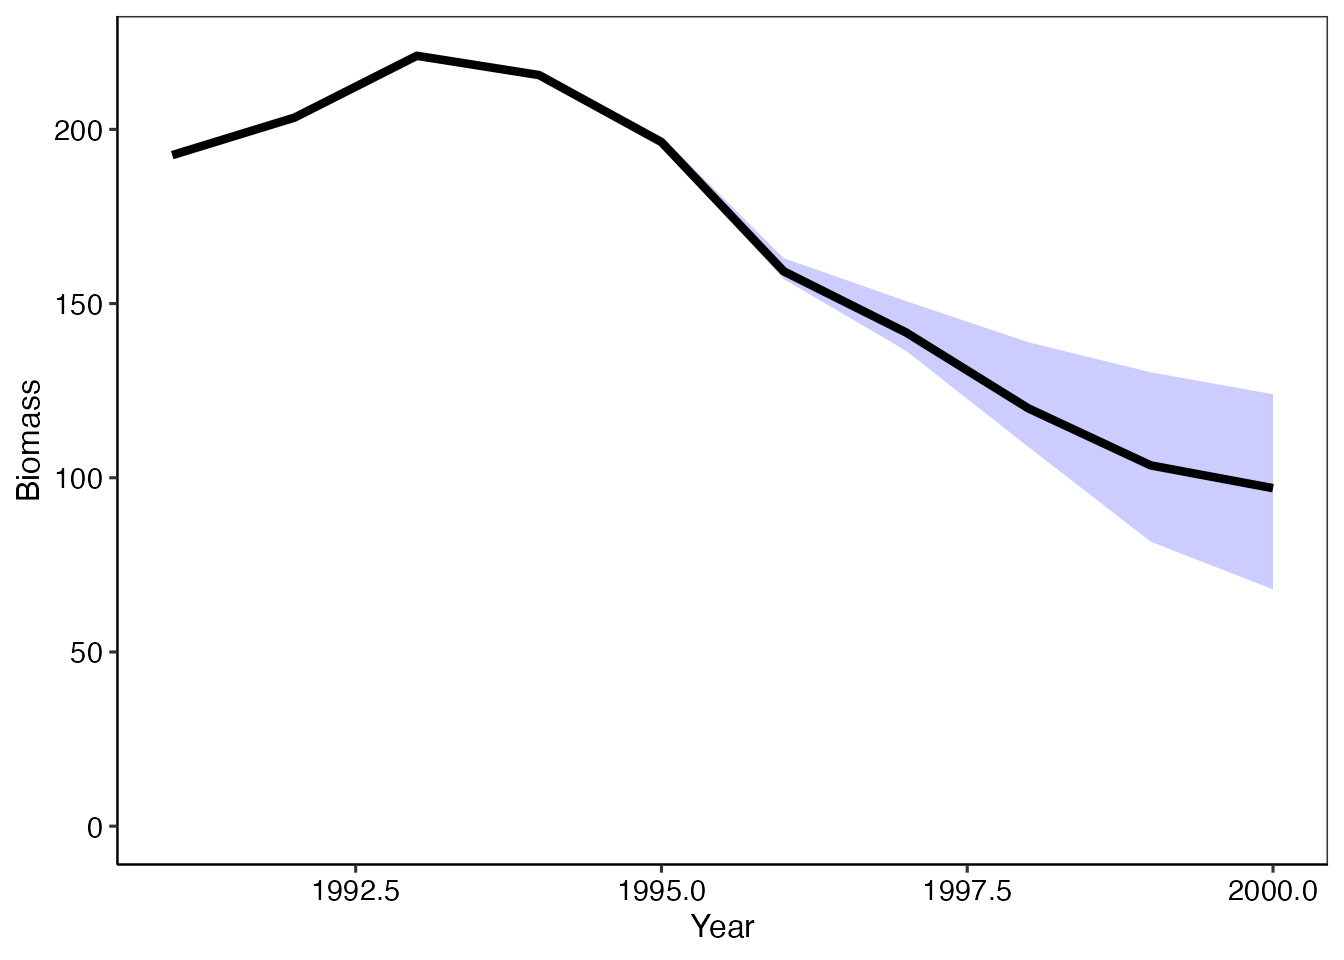
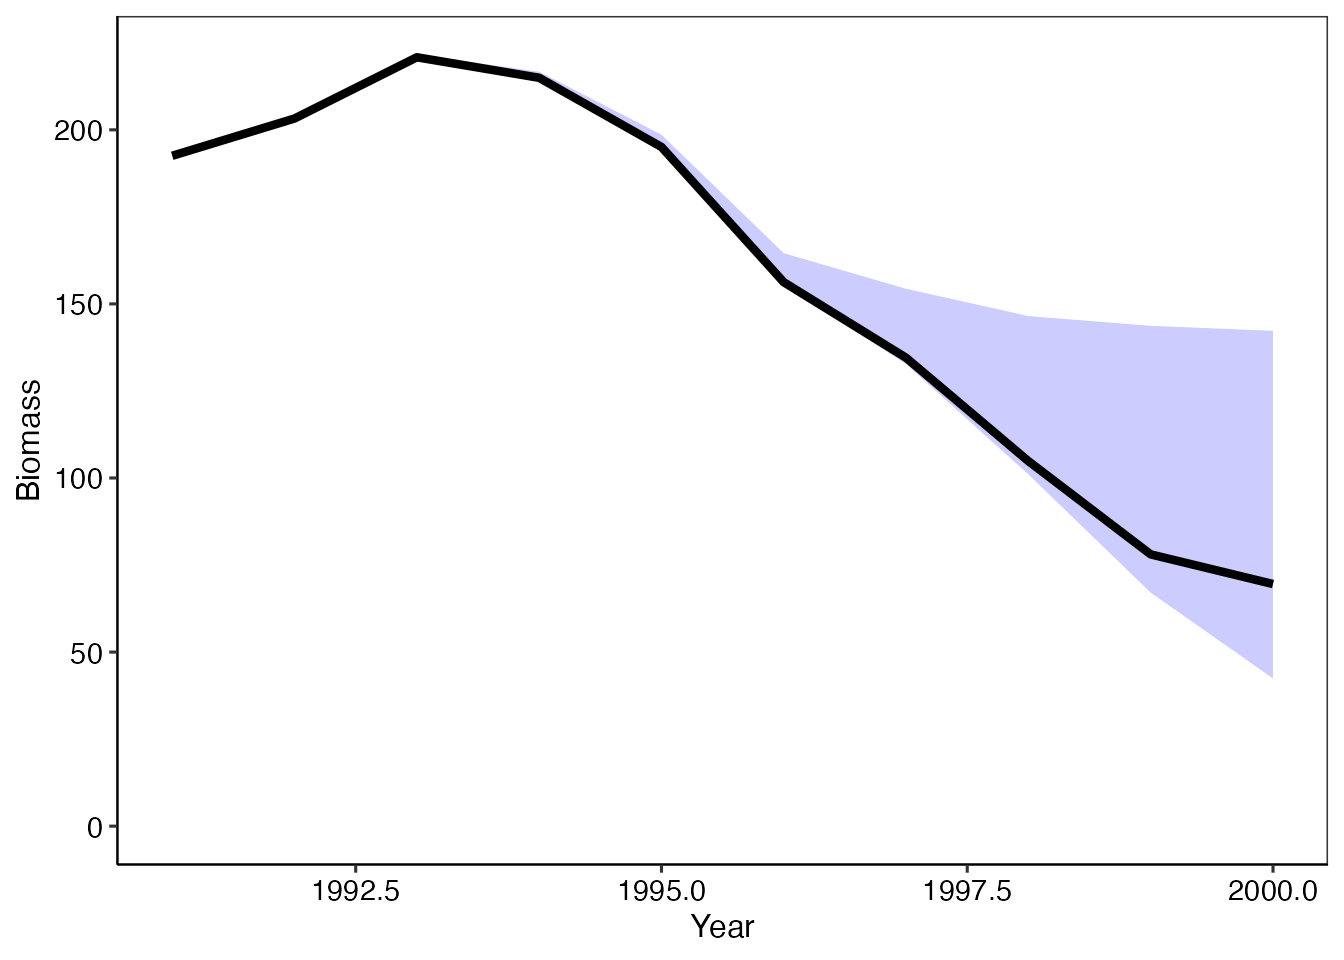
Built site for frasyr: 2.2.0.0@13dfbec

diff --git a/reference/create_dummy_vpa.html b/reference/create_dummy_vpa.html
@@ -6,7 +6,7 @@
 <meta http-equiv="X-UA-Compatible" content="IE=edge">
 <meta name="viewport" content="width=device-width, initial-scale=1.0">
 
-<title>VPAのレトロスペクティブ解析結果を自動生成する関数 — do_retrospective_vpa • frasyr</title>
+<title>VPAデータが1年分追加されたダミーデータを生成する — create_dummy_vpa • frasyr</title>
 
 
 <!-- jquery -->
@@ -39,8 +39,8 @@
 
 
 
-<meta property="og:title" content="VPAのレトロスペクティブ解析結果を自動生成する関数 — do_retrospective_vpa" />
-<meta property="og:description" content="VPAのレトロスペクティブ解析結果を自動生成する関数" />
+<meta property="og:title" content="VPAデータが1年分追加されたダミーデータを生成する — create_dummy_vpa" />
+<meta property="og:description" content="VPAデータが1年分追加されたダミーデータを生成する" />
 
 
 
@@ -123,89 +123,18 @@
 <div class="row">
   <div class="col-md-9 contents">
     <div class="page-header">
-    <h1>VPAのレトロスペクティブ解析結果を自動生成する関数</h1>
+    <h1>VPAデータが1年分追加されたダミーデータを生成する</h1>
     
-    <div class="hidden name"><code>do_retrospective_vpa.Rd</code></div>
+    <div class="hidden name"><code>create_dummy_vpa.Rd</code></div>
     </div>
 
     <div class="ref-description">
-    <p>VPAのレトロスペクティブ解析結果を自動生成する関数</p>
+    <p>VPAデータが1年分追加されたダミーデータを生成する</p>
     </div>
 
-    <div class="ref-usage sourceCode"><pre class='sourceCode r'><code><span class='fu'>do_retrospective_vpa</span><span class='op'>(</span>
-  <span class='va'>res</span>,
-  n_retro <span class='op'>=</span> <span class='fl'>5</span>,
-  b_reest <span class='op'>=</span> <span class='cn'>FALSE</span>,
-  what_plot <span class='op'>=</span> <span class='fu'><a href='https://rdrr.io/r/base/c.html'>c</a></span><span class='op'>(</span><span class='st'>"SSB"</span>, <span class='st'>"biomass"</span>, <span class='st'>"Recruitment"</span>, <span class='st'>"fish_number"</span>, <span class='st'>"fishing_mortality"</span><span class='op'>)</span>,
-  plot_year <span class='op'>=</span> <span class='cn'>NULL</span>,
-  ncol <span class='op'>=</span> <span class='fl'>3</span>,
-  remove_maxAgeF <span class='op'>=</span> <span class='cn'>FALSE</span>,
-  ssb_forecast <span class='op'>=</span> <span class='cn'>FALSE</span>,
-  res_step1 <span class='op'>=</span> <span class='cn'>NULL</span>,
-  scale_value <span class='op'>=</span> <span class='cn'>NULL</span>,
-  grid_add_ini <span class='op'>=</span> <span class='cn'>NULL</span>,
-  grid_init <span class='op'>=</span> <span class='cn'>NULL</span>
-<span class='op'>)</span></code></pre></div>
+    <div class="ref-usage sourceCode"><pre class='sourceCode r'><code><span class='fu'>create_dummy_vpa</span><span class='op'>(</span><span class='va'>res_vpa</span><span class='op'>)</span></code></pre></div>
 
-    <h2 class="hasAnchor" id="arguments"><a class="anchor" href="#arguments"></a>Arguments</h2>
-    <table class="ref-arguments">
-    <colgroup><col class="name" /><col class="desc" /></colgroup>
-    <tr>
-      <th>res</th>
-      <td><p>VPAの結果のオブジェクト</p></td>
-    </tr>
-    <tr>
-      <th>n_retro</th>
-      <td><p>レトロスペクティブ解析でさかのぼる年数</p></td>
-    </tr>
-    <tr>
-      <th>b_reest</th>
-      <td><p>bをレトロスペクティブ解析中で再推定するか</p></td>
-    </tr>
-    <tr>
-      <th>what_plot</th>
-      <td><p>作図したい項目を選べる。<code>NULL</code>の場合、全て（SSB, biomass, U, catch, Recruitment, fish_number, fishing_mortality, weight, maturity, catch_number）をプロットする。</p></td>
-    </tr>
-    <tr>
-      <th>ncol</th>
-      <td><p>作図の列数。標準で5列なので、<code>what_plot</code>の数が5以下の場合は適宜変えた方がよい。</p></td>
-    </tr>
-    <tr>
-      <th>remove_maxAgeF</th>
-      <td><p>Mohn's rhoを計算する際に最高齢のFを除くか（alphaを仮定して計算していることが多いから）</p></td>
-    </tr>
-    <tr>
-      <th>ssb_forecast</th>
-      <td><p>Mohn's rhoを計算する際にSSBは1年後を計算するか(last.catch.zero=TRUEのときのみ有効)</p></td>
-    </tr>
-    <tr>
-      <th>res_step1</th>
-      <td><p>2段階法のレトロ解析をやる場合の1段階目の<code>vpa</code>オブジェクト</p></td>
-    </tr>
-    <tr>
-      <th>grid_add_ini</th>
-      <td><p><code>add.p.ini</code>をgridで変えて初期値を事前に探索する</p></td>
-    </tr>
-    <tr>
-      <th>grid_init</th>
-      <td><p><code>p.init</code>でgridを変えて初期値を事前に探索する</p></td>
-    </tr>
-    </table>
 
-    <h2 class="hasAnchor" id="value"><a class="anchor" href="#value"></a>Value</h2>
-
-    <p>返ってくる値:
-    <code>result</code> 感度分析の結果が<code>list</code>型式で得られる。
-    <code>mohn_rho</code>
-    <code>graph</code> 図が得られる。</p>
-    <h2 class="hasAnchor" id="see-also"><a class="anchor" href="#see-also"></a>See also</h2>
-
-    <div class='dont-index'><p>レトロスペクティブ解析について:  <code><a href='retro.est.html'>retro.est</a></code>
-作図について: <code><a href='plot_vpa.html'>plot_vpa</a></code>
-https://ichimomo.github.io/frasyr/articles/Diagnostics-for-VPA.html</p></div>
-    <h2 class="hasAnchor" id="author"><a class="anchor" href="#author"></a>Author</h2>
-
-    <p>濵邉昂平, 市野川桃子</p>
 
   </div>
   <div class="col-md-3 hidden-xs hidden-sm" id="pkgdown-sidebar">

diff --git a/reference/vpa.html b/reference/vpa.html
@@ -205,12 +205,14 @@
   eta <span class='op'>=</span> <span class='cn'>NULL</span>,
   eta.age <span class='op'>=</span> <span class='fl'>0</span>,
   tmb.file <span class='op'>=</span> <span class='st'>"rvpa_tmb"</span>,
+  remove.abund <span class='op'>=</span> <span class='cn'>NULL</span>,
   madara <span class='op'>=</span> <span class='cn'>FALSE</span>,
   p_by_age <span class='op'>=</span> <span class='cn'>FALSE</span>,
   penalty_age <span class='op'>=</span> <span class='cn'>NULL</span>,
   no_eta_age <span class='op'>=</span> <span class='cn'>NULL</span>,
   sdreport <span class='op'>=</span> <span class='cn'>FALSE</span>,
-  use.equ <span class='op'>=</span> <span class='st'>"new"</span>
+  use.equ <span class='op'>=</span> <span class='st'>"new"</span>,
+  ave_S <span class='op'>=</span> <span class='cn'>TRUE</span>
 <span class='op'>)</span></code></pre></div>
 
     <h2 class="hasAnchor" id="arguments"><a class="anchor" href="#arguments"></a>Arguments</h2>
@@ -354,7 +356,7 @@
     </tr>
     <tr>
       <th>sel.def</th>
-      <td><p>sel.update=TRUEで選択率を更新していく際に，選択率をどのように計算するか．最大値を1とするか，平均値を1にするか...</p></td>
+      <td><p>sel.update=TRUEで選択率を更新していく際に，選択率をどのように計算するか．"max"=選択率が一番大きい年齢の選択率を１とする，"maxage"=最高齢の選択率を１とする，"mean"=全体に対する割合として選択率を決める（saa=faa/sum(faa))</p></td>
     </tr>
     <tr>
       <th>max.dd</th>
@@ -441,6 +443,10 @@
       <td><p>TMB=TRUEのとき使用するcppファイルの名前</p></td>
     </tr>
     <tr>
+      <th>remove.abund</th>
+      <td><p>ある値を引いた値に対してチューニングに使用する（トラフグ伊勢・三河湾系群で放流魚を引いて天然魚のみに対してチューニングするため）.</p></td>
+    </tr>
+    <tr>
       <th>madara</th>
       <td><p>マダラ太平洋系群で用いているチューニングのやり方</p></td>
     </tr>
@@ -463,6 +469,10 @@
     <tr>
       <th>use.equ</th>
       <td><p>plus groupが途中で変わる場合の計算式の選択 （old = 従来の方法（プラスグループが延長している年はプラスグループのＦが一歳若い年齢のＦと等しいという仮定は置かない），new= 新しい方法（プラスグループが延長している年はプラスグループのＦが一歳若い年齢のＦと等しいという仮定を置く)</p></td>
+    </tr>
+    <tr>
+      <th>ave_S</th>
+      <td><p>選択率更新法において，最終年の選択率の仮定が通常(TRUE)とは違い，ヒラメ瀬戸内のように，最終年の選択率がtf.yearで指定した年の平均のF（つまりSUM（F,a)/SUM(F,maxage))に等しいと仮定する場合はFALSEにする.この場合，sel.def="maxage"必須．</p></td>
     </tr>
     </table>
 

diff --git a/articles/Diagnostics-for-VPA.html b/articles/Diagnostics-for-VPA.html
@@ -77,7 +77,7 @@
       <h1 data-toc-skip>VPAモデル診断スクリプト</h1>
                         <h4 data-toc-skip class="author">濵邉昂平・市野川桃子</h4>
             
-            <h4 data-toc-skip class="date">2021-06-22</h4>
+            <h4 data-toc-skip class="date">2021-07-27</h4>
       
       
       <div class="hidden name"><code>Diagnostics-for-VPA.Rmd</code></div>
@@ -421,7 +421,7 @@
                                               b_reest <span class="op">=</span> <span class="cn">TRUE</span> <span class="co"># ここをTRUEにしてください!!</span>
                                               <span class="op">)</span>
 <span class="va">res_vpa_retrospective</span><span class="op">$</span><span class="va">b_res</span></code></pre></div>
-<pre><code># A tibble: 6 x 4
+<pre><code># A tibble: 6 × 4
   `2000` `1999` `1998` `1997`
    &lt;dbl&gt;  &lt;dbl&gt;  &lt;dbl&gt;  &lt;dbl&gt;
 1  1.11   1.04   0.792  0.603
@@ -630,7 +630,7 @@ Likelihood with estimated parameters is:  23.60018 </code></pre>
 <span class="kw">for</span><span class="op">(</span><span class="va">i</span> <span class="kw">in</span> <span class="fl">1</span><span class="op">:</span><span class="fl">10</span><span class="op">)</span> <span class="va">res_tmp</span><span class="op">[</span><span class="va">i</span><span class="op">]</span> <span class="op">&lt;-</span> <span class="fu"><a href="https://rdrr.io/r/base/numeric.html" class="external-link">as.numeric</a></span><span class="op">(</span><span class="va">res_vpa_bootstrap</span><span class="op">$</span><span class="va">res_boot</span><span class="op">[[</span><span class="va">i</span><span class="op">]</span><span class="op">]</span><span class="op">$</span><span class="va">Fc.at.age</span><span class="op">[</span><span class="fl">4</span><span class="op">]</span><span class="op">)</span>
 <span class="fu"><a href="https://rdrr.io/r/stats/quantile.html" class="external-link">quantile</a></span><span class="op">(</span><span class="va">res_tmp</span>, probs <span class="op">=</span> <span class="fu"><a href="https://rdrr.io/r/base/c.html" class="external-link">c</a></span><span class="op">(</span><span class="fl">0.025</span>,<span class="fl">0.5</span>,<span class="fl">0.975</span><span class="op">)</span><span class="op">)</span></code></pre></div>
 <pre><code>     2.5%       50%     97.5% 
-0.4949043 0.6831658 0.9511427 </code></pre>
+0.4473041 1.2331487 7.3644478 </code></pre>
 <p>この他、各パラメータの相関関係について、ブートストラップ標本を基にプロットが得られます。</p>
 <div class="sourceCode" id="cb43"><pre class="downlit sourceCode r">
 <code class="sourceCode R"><span class="va">res_vpa_bootstrap</span><span class="op">$</span><span class="va">plot_cor</span></code></pre></div>

diff --git a/reference/plot_SR.html b/reference/plot_SR.html
@@ -6,7 +6,7 @@
 <meta http-equiv="X-UA-Compatible" content="IE=edge">
 <meta name="viewport" content="width=device-width, initial-scale=1.0">
 
-<title>再生産関係をプロットする関数 — SRplot_gg • frasyr</title>
+<title>再生産関係をプロットする関数 — plot_SR • frasyr</title>
 
 
 <!-- jquery -->
@@ -39,7 +39,7 @@
 
 
 
-<meta property="og:title" content="再生産関係をプロットする関数 — SRplot_gg" />
+<meta property="og:title" content="再生産関係をプロットする関数 — plot_SR" />
 <meta property="og:description" content="再生産関係をプロットする関数" />
 
 
@@ -125,14 +125,28 @@
     <div class="page-header">
     <h1>再生産関係をプロットする関数</h1>
     
-    <div class="hidden name"><code>SRplot_gg.Rd</code></div>
+    <div class="hidden name"><code>plot_SR.Rd</code></div>
     </div>
 
     <div class="ref-description">
     <p>再生産関係をプロットする関数</p>
     </div>
 
-    <div class="ref-usage sourceCode"><pre class='sourceCode r'><code><span class='fu'>SRplot_gg</span><span class='op'>(</span><span class='va'>...</span><span class='op'>)</span></code></pre></div>
+    <div class="ref-usage sourceCode"><pre class='sourceCode r'><code><span class='fu'>plot_SR</span><span class='op'>(</span>
+  <span class='va'>SR_result</span>,
+  refs <span class='op'>=</span> <span class='cn'>NULL</span>,
+  xscale <span class='op'>=</span> <span class='fl'>1000</span>,
+  xlabel <span class='op'>=</span> <span class='st'>"千トン"</span>,
+  yscale <span class='op'>=</span> <span class='fl'>1</span>,
+  ylabel <span class='op'>=</span> <span class='st'>"尾"</span>,
+  labeling.year <span class='op'>=</span> <span class='cn'>NULL</span>,
+  add.info <span class='op'>=</span> <span class='cn'>TRUE</span>,
+  recruit_intercept <span class='op'>=</span> <span class='fl'>0</span>,
+  plot_CI <span class='op'>=</span> <span class='cn'>FALSE</span>,
+  CI <span class='op'>=</span> <span class='fl'>0.9</span>,
+  shape_custom <span class='op'>=</span> <span class='fu'><a href='https://rdrr.io/r/base/c.html'>c</a></span><span class='op'>(</span><span class='fl'>21</span>, <span class='fl'>3</span><span class='op'>)</span>,
+  add_graph <span class='op'>=</span> <span class='cn'>NULL</span>
+<span class='op'>)</span></code></pre></div>
 
     <h2 class="hasAnchor" id="arguments"><a class="anchor" href="#arguments"></a>Arguments</h2>
     <table class="ref-arguments">

diff --git a/articles/fittingSR.html b/articles/fittingSR.html
@@ -77,7 +77,7 @@
       <h1 data-toc-skip>fitSR関数を使った再生産関係の推定</h1>
                         <h4 data-toc-skip class="author">Shota Nisijima &amp; Shin Fukui</h4>
             
-            <h4 data-toc-skip class="date">2021-06-22</h4>
+            <h4 data-toc-skip class="date">2021-07-27</h4>
       
       
       <div class="hidden name"><code>fittingSR.Rmd</code></div>
@@ -140,7 +140,7 @@
 <code class="sourceCode R"><span class="fu"><a href="../reference/out.SR.html">out.SR</a></span><span class="op">(</span><span class="va">resL2inner</span>, filename <span class="op">=</span> <span class="st">"L2inner"</span><span class="op">)</span>
 
 <span class="co">## プロットする。</span>
-<span class="op">(</span><span class="va">g1</span> <span class="op">=</span> <span class="fu"><a href="../reference/SRplot_gg.html">SRplot_gg</a></span><span class="op">(</span><span class="va">resL2inner</span><span class="op">)</span><span class="op">)</span></code></pre></div>
+<span class="op">(</span><span class="va">g1</span> <span class="op">=</span> <span class="fu">SRplot_gg</span><span class="op">(</span><span class="va">resL2inner</span><span class="op">)</span><span class="op">)</span></code></pre></div>
 <p><img src="fittingSR_files/figure-html/unnamed-chunk-4-1.png" width="700"></p>
 <div class="sourceCode" id="cb5"><pre class="downlit sourceCode r">
 <code class="sourceCode R"><span class="co">## 図をpng形式で保存する。</span>

diff --git a/reference/index.html b/reference/index.html
@@ -154,12 +154,6 @@
       </tr><tr>
         
         <td>
-          <p><code><a href="SRplot_gg.html">SRplot_gg()</a></code> </p>
-        </td>
-        <td><p>再生産関係をプロットする関数</p></td>
-      </tr><tr>
-        
-        <td>
           <p><code><a href="SRregime_plot.html">SRregime_plot()</a></code> </p>
         </td>
         <td><p>fit.SRregimeの結果で得られた再生産関係をプロットするための関数</p></td>
@@ -385,6 +379,12 @@
           <p><code><a href="corSR.html">corSR()</a></code> </p>
         </td>
         <td><p>再生産関係の推定パラメータの相関を出力する関数</p></td>
+      </tr><tr>
+        
+        <td>
+          <p><code><a href="create_dummy_vpa.html">create_dummy_vpa()</a></code> </p>
+        </td>
+        <td><p>VPAデータが1年分追加されたダミーデータを生成する</p></td>
       </tr><tr>
         
         <td>
@@ -667,6 +667,12 @@
           <p><code><a href="plot_HCR_by_catch.html">plot_HCR_by_catch()</a></code> </p>
         </td>
         <td><p>縦軸が漁獲量のHCRを書く（traceの結果が必要）</p></td>
+      </tr><tr>
+        
+        <td>
+          <p><code><a href="plot_SR.html">plot_SR()</a></code> </p>
+        </td>
+        <td><p>再生産関係をプロットする関数</p></td>
       </tr><tr>
         
         <td>

diff --git a/reference/retro.est.html b/reference/retro.est.html
@@ -141,6 +141,8 @@
   remove.maxAgeF <span class='op'>=</span> <span class='cn'>FALSE</span>,
   ssb.forecast <span class='op'>=</span> <span class='cn'>FALSE</span>,
   sel.mat <span class='op'>=</span> <span class='cn'>NULL</span>,
+  grid.add.ini <span class='op'>=</span> <span class='cn'>NULL</span>,
+  grid.init <span class='op'>=</span> <span class='cn'>NULL</span>,
   remove.short.index <span class='op'>=</span> <span class='cn'>FALSE</span>
 <span class='op'>)</span></code></pre></div>
 
@@ -166,6 +168,14 @@
     <tr>
       <th>ssb.forecast</th>
       <td><p>Mohn's rhoを計算する際にSSBは1年後を計算するか(last.catch.zero=TRUEのときのみ有効)</p></td>
+    </tr>
+    <tr>
+      <th>grid.add.ini</th>
+      <td><p><code>add.p.ini</code>をgridで変えて初期値を事前に探索する</p></td>
+    </tr>
+    <tr>
+      <th>grid.init</th>
+      <td><p><code>p.init</code>でgridを変えて初期値を事前に探索する</p></td>
     </tr>
     <tr>
       <th>remove.short.index</th>

diff --git a/articles/vpa.html b/articles/vpa.html
@@ -77,7 +77,7 @@
       <h1 data-toc-skip>VPA関数を使った資源量推定</h1>
                         <h4 data-toc-skip class="author">市野川桃子</h4>
             
-            <h4 data-toc-skip class="date">2021-06-22</h4>
+            <h4 data-toc-skip class="date">2021-07-27</h4>
       
       
       <div class="hidden name"><code>vpa.Rmd</code></div>
